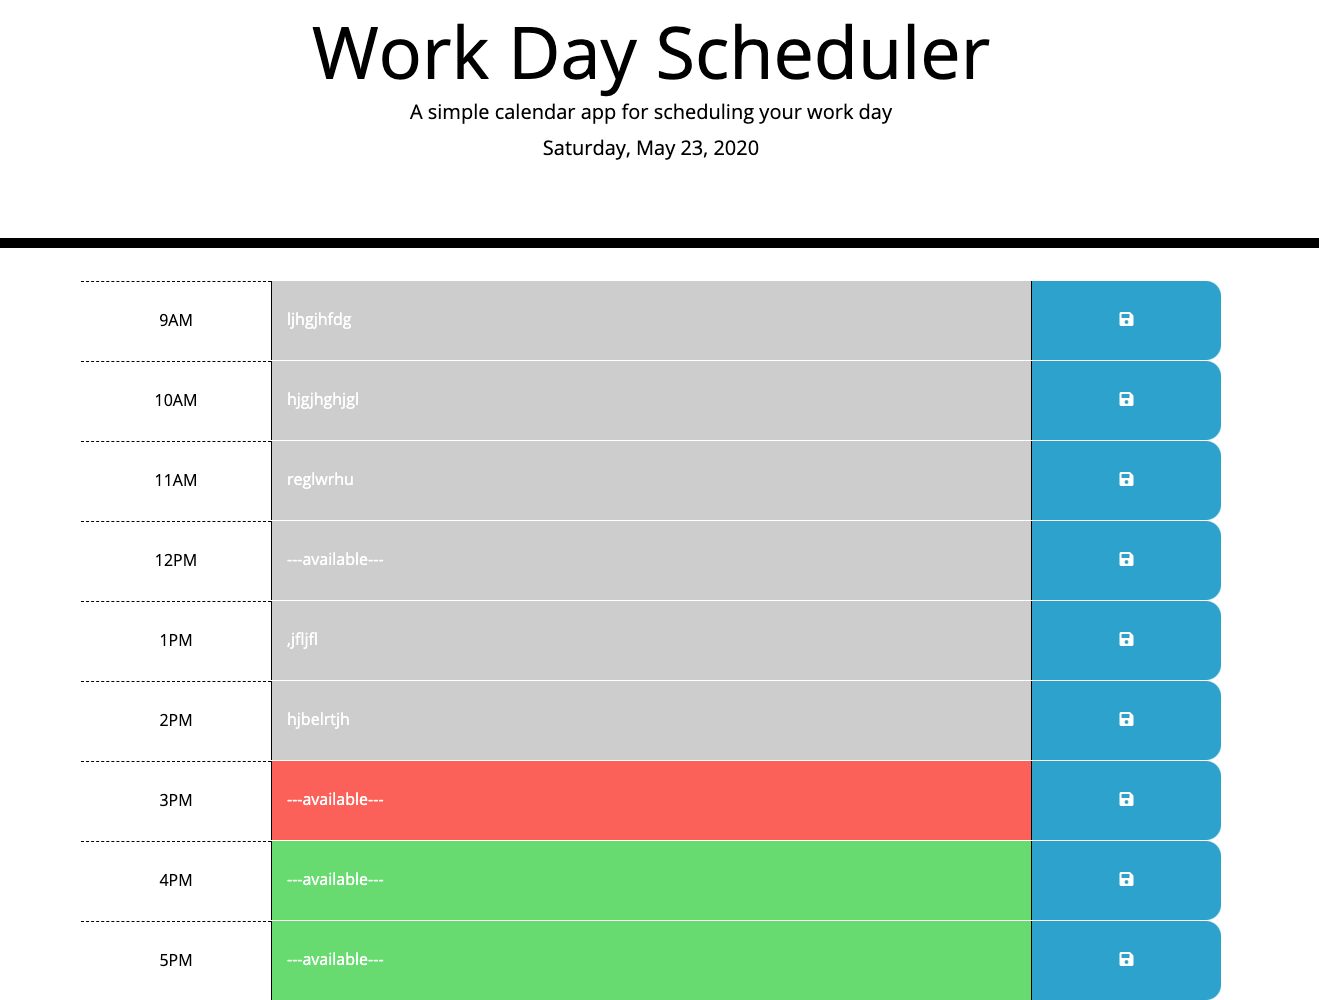
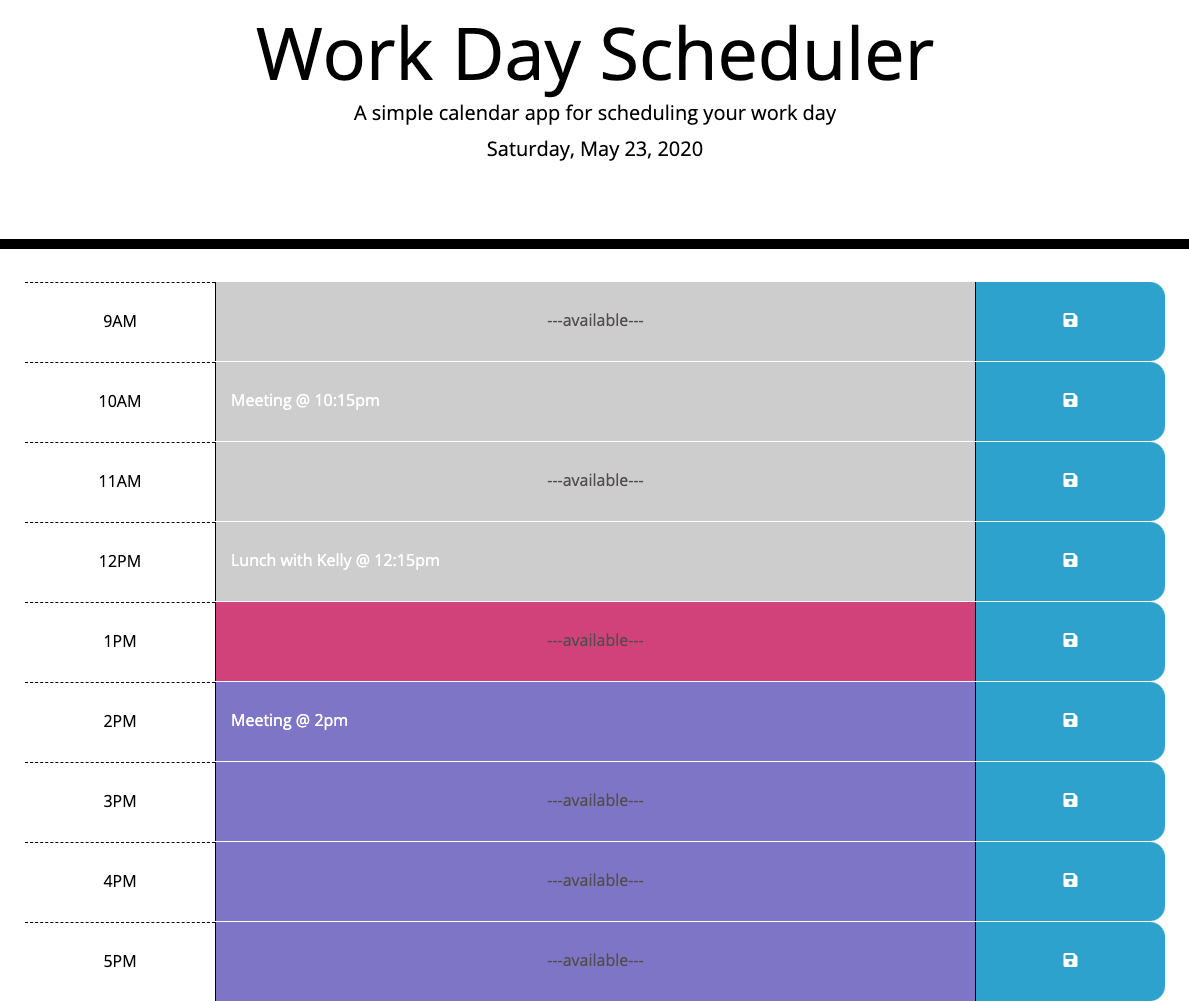
updated screenshot

diff --git a/css_js/style.css b/css_js/style.css
@@ -56,7 +56,7 @@ textarea{
 }
 
 .future {
-  background-color: rgb(201, 106, 89);
+  background-color: rgb(132, 132, 207);
   color: white;
 }
 
